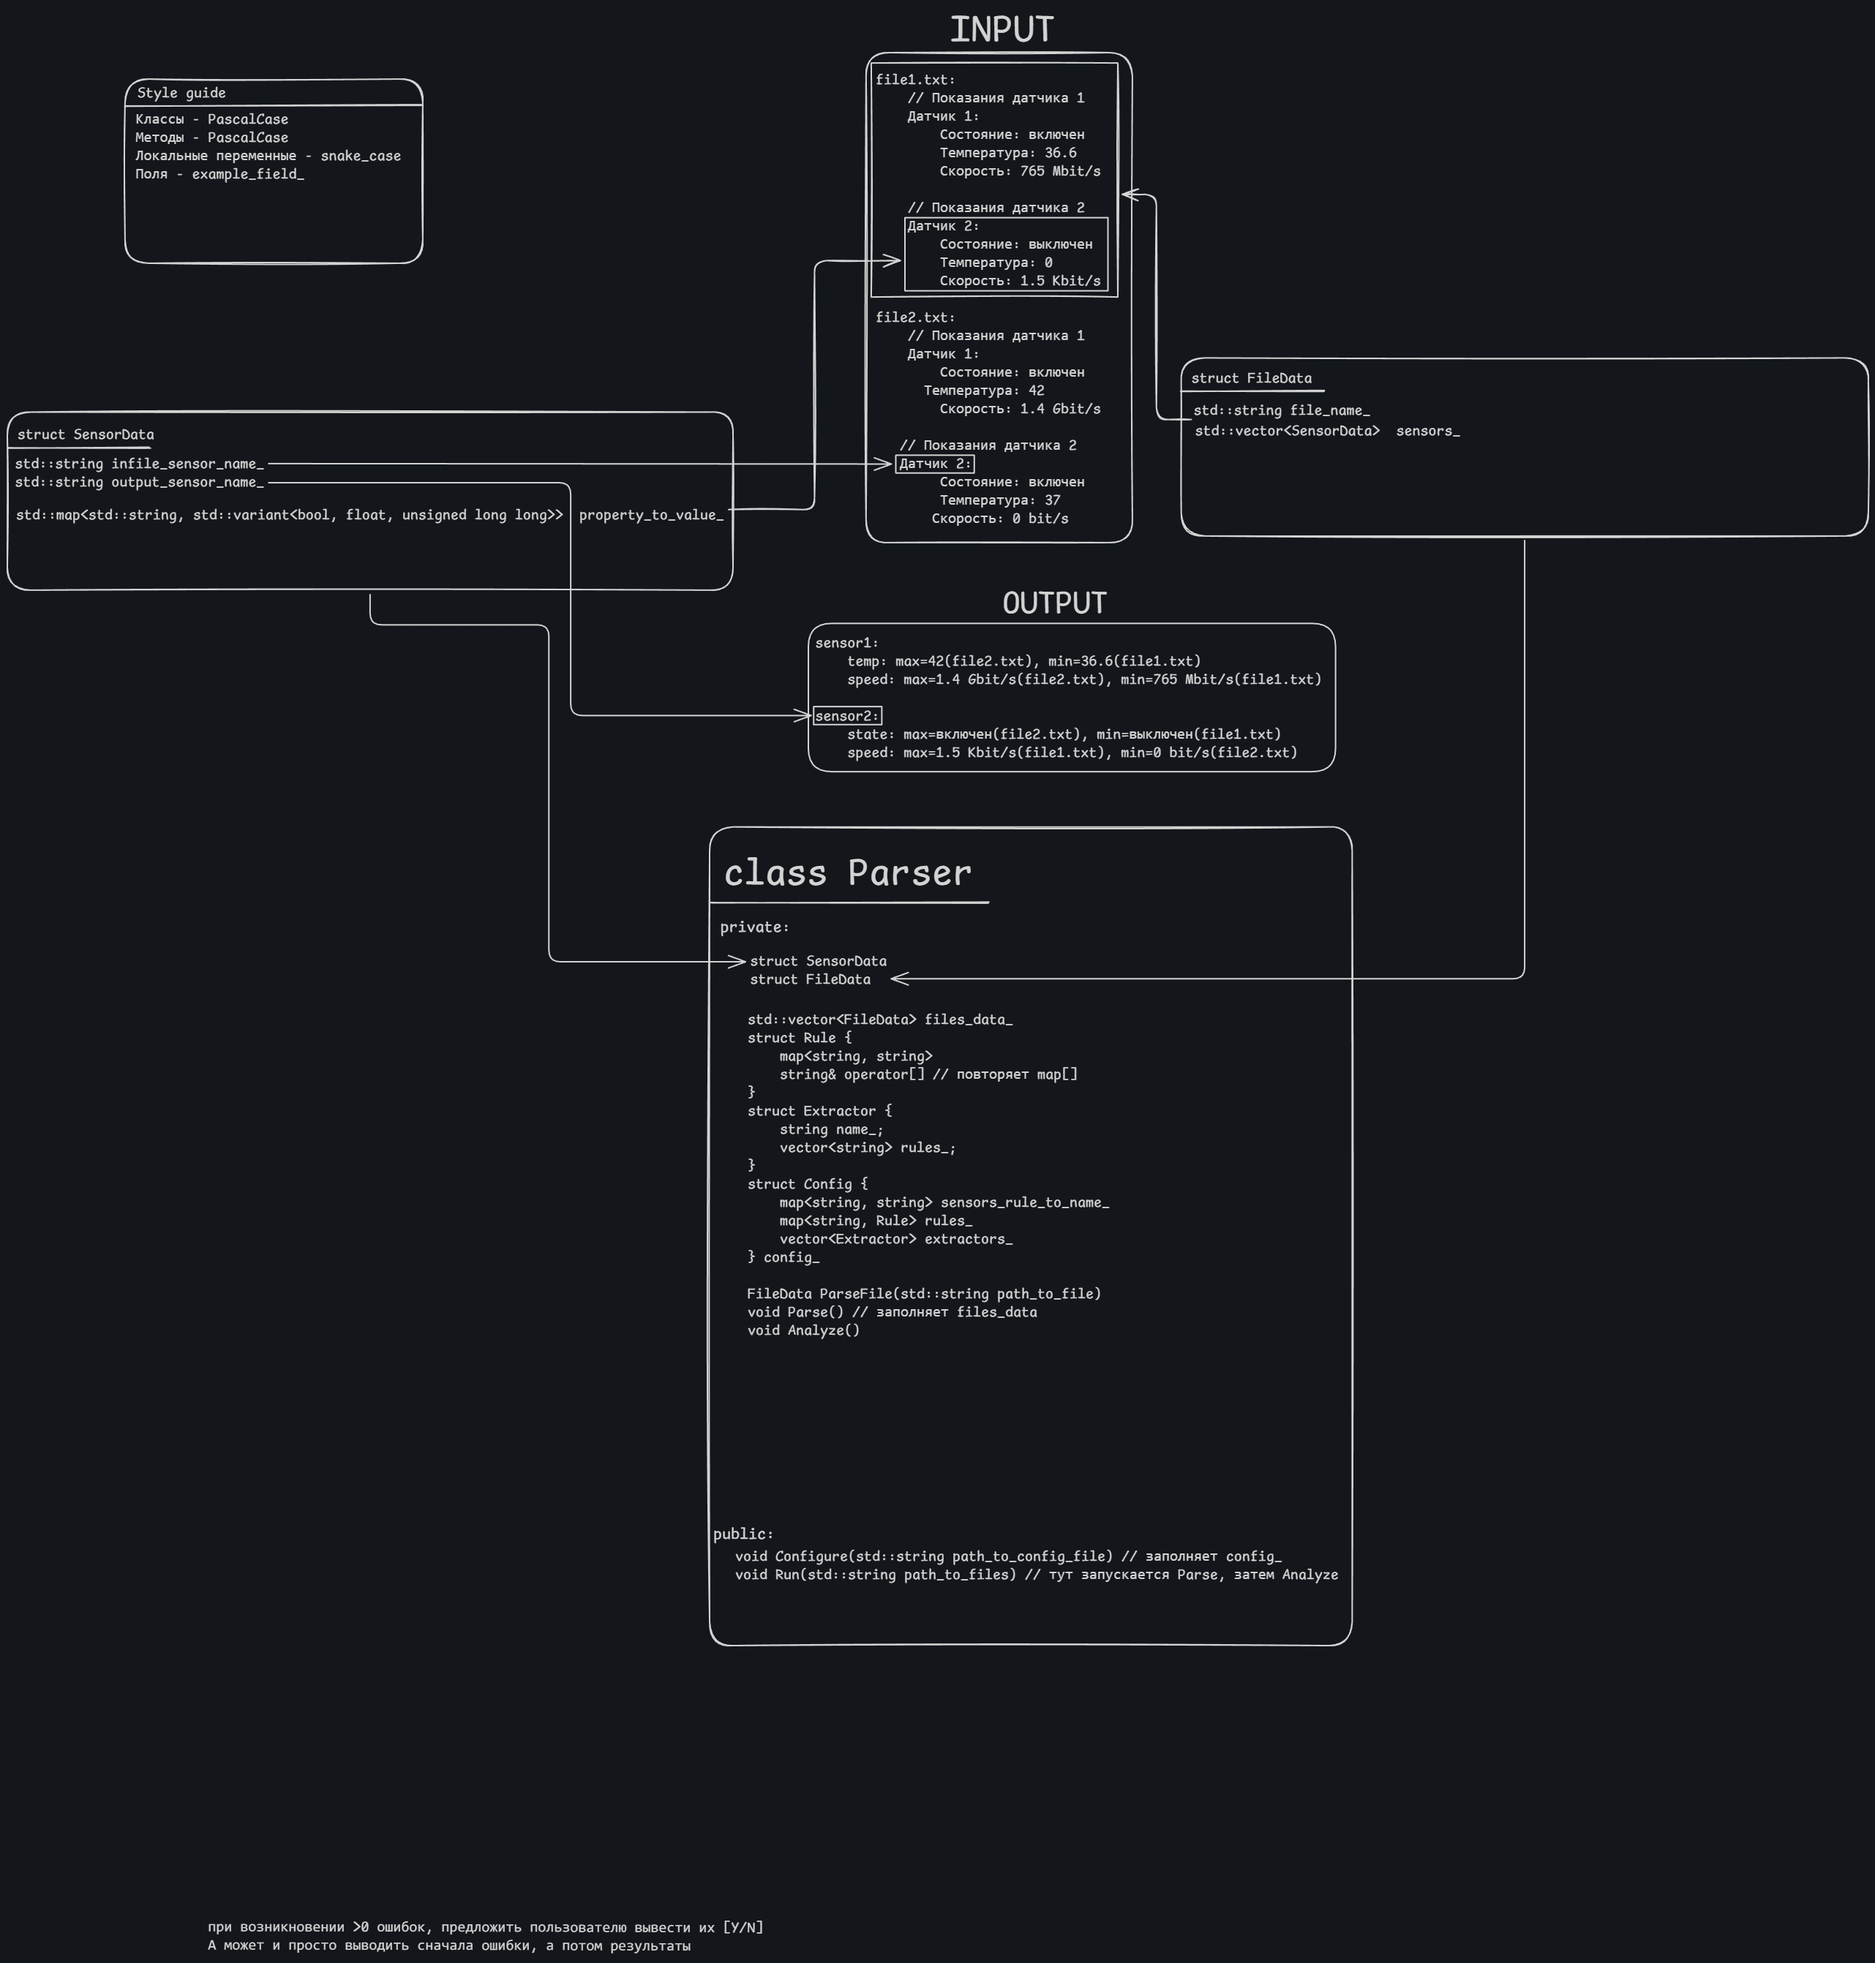
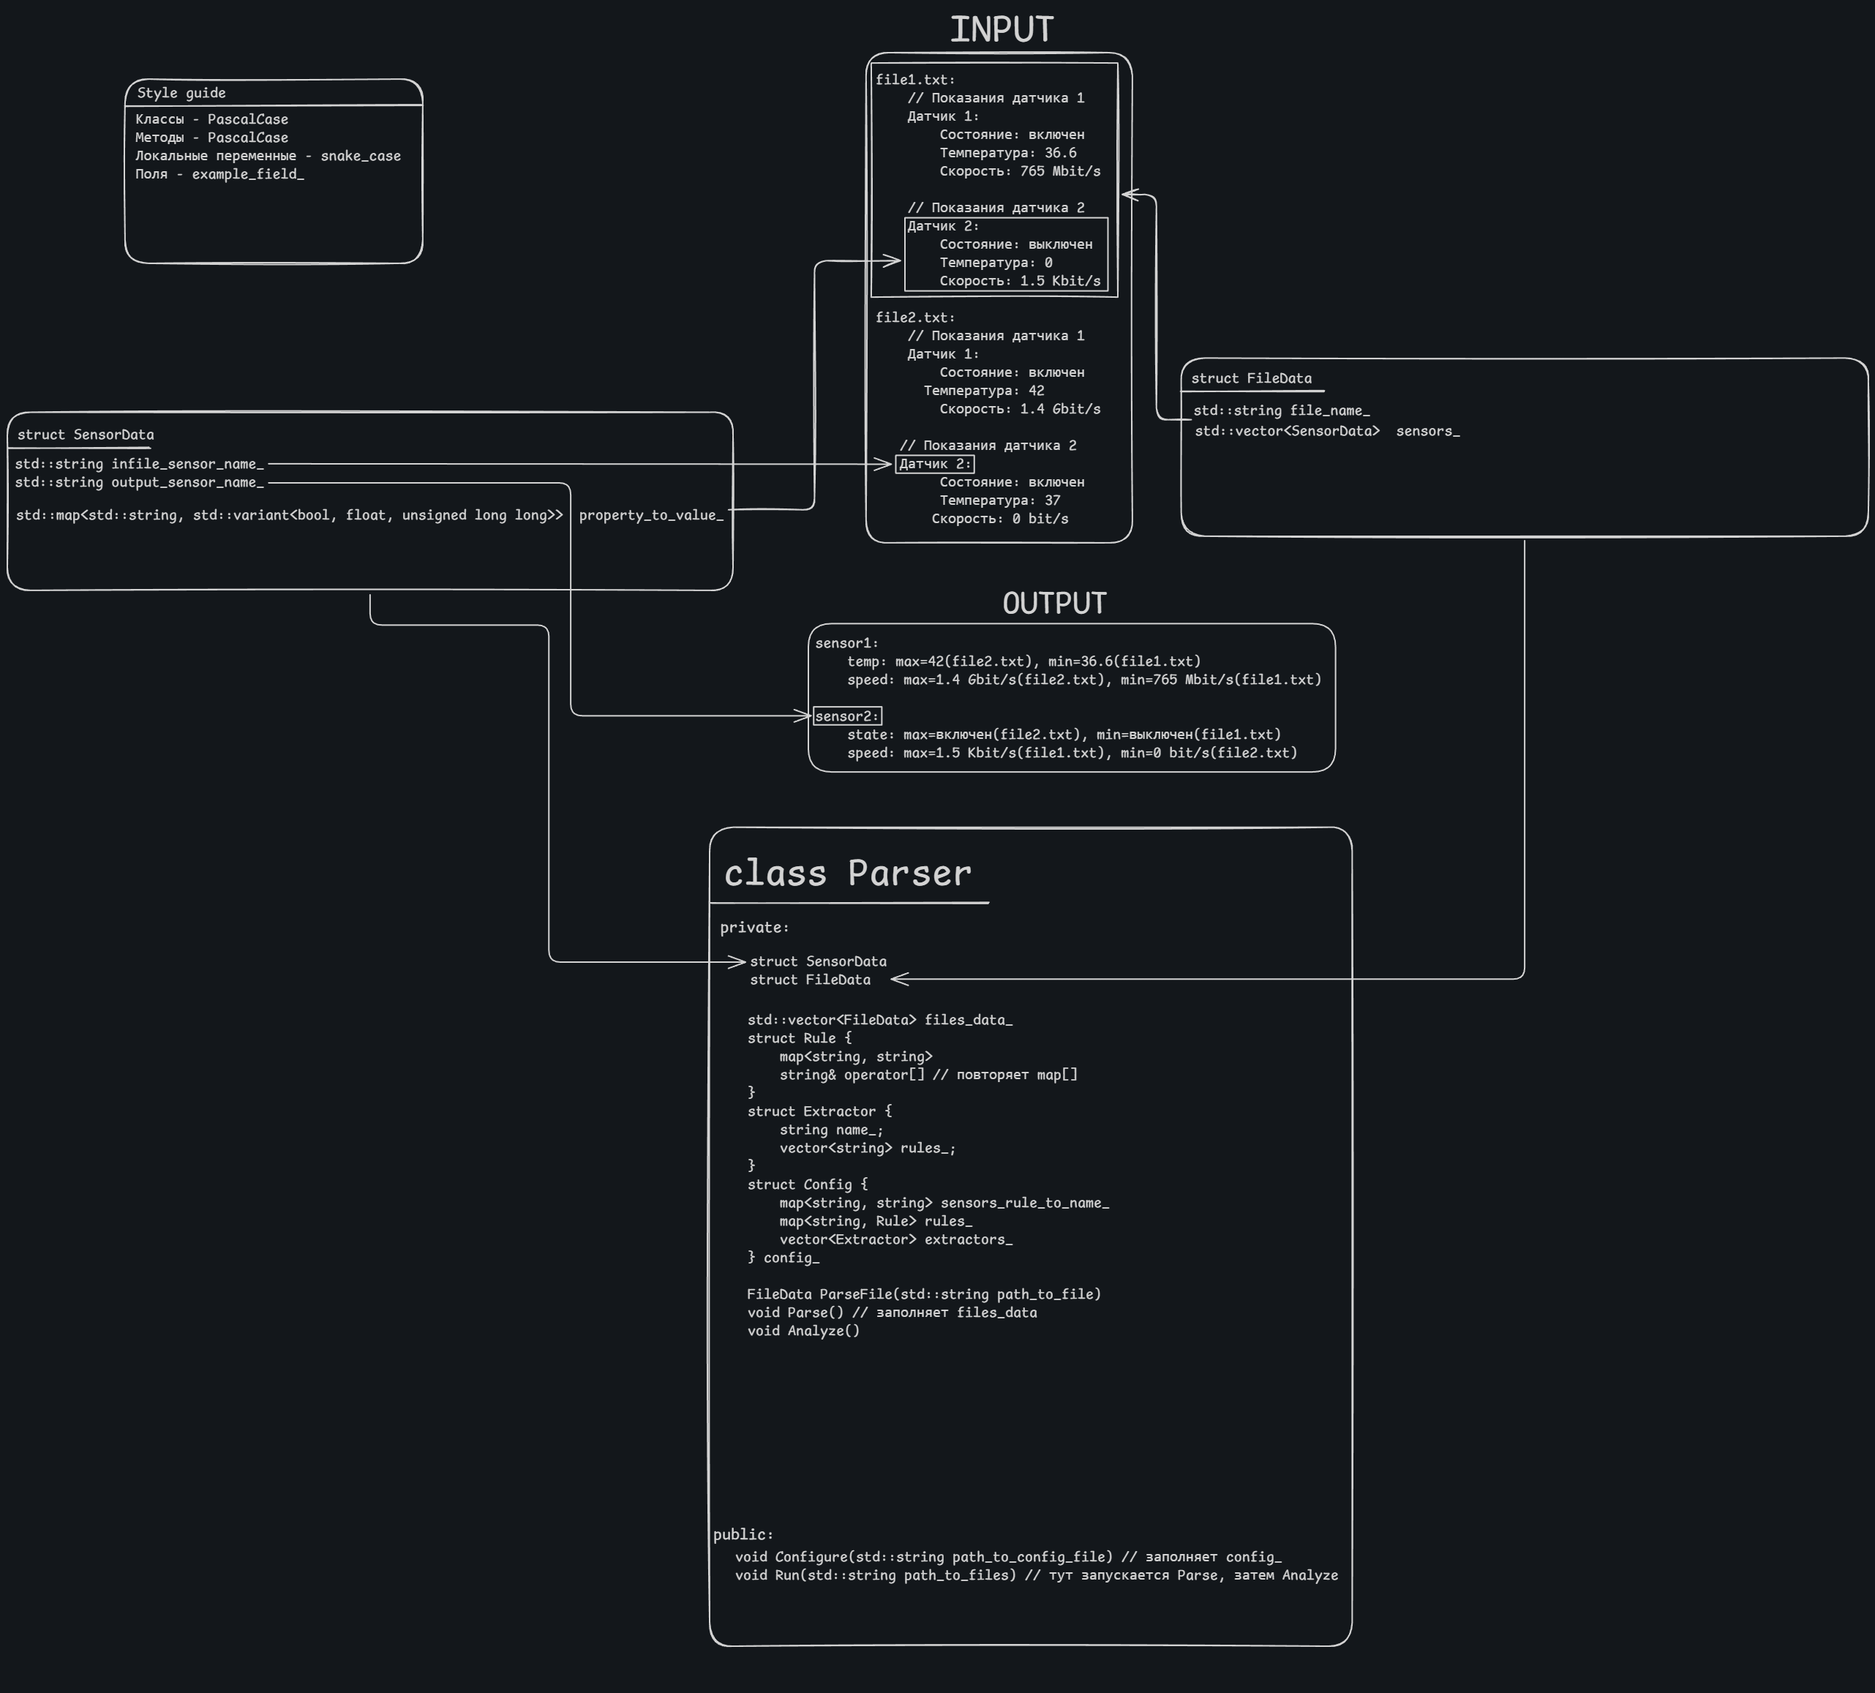
Add configure method implementation

diff --git a/includes/configurable_parser.h b/includes/configurable_parser.h
@@ -1,0 +1,143 @@
+#pragma once
+#include <string>
+#include <map>
+#include <variant>
+#include <vector>
+#include <iostream>
+#include <fstream>
+#include <json.hpp>
+using json = nlohmann::json;
+
+// TODO: добавить всякие проверки в Parser::Configure
+
+class Parser {
+private:
+    enum types {
+        kBool = 0,
+        kFloat = 1,
+        kUnsignedLL = 2
+    };
+
+    struct SensorData {
+        std::string infile_sensor_name_;
+        std::string output_sensor_name_;
+        std::map<std::string, std::variant<bool, float, unsigned long long>> property_to_value_;
+    };
+
+    struct FileData {
+        std::string file_name_;
+        std::vector<SensorData>  sensors_;
+    };
+
+    class Rule {
+        std::map<std::string, std::string> properties_;
+    public:
+        std::string& operator[](std::string propetry_name) {
+            return properties_[propetry_name];
+        }
+
+        friend std::ostream& operator<<(std::ostream& os, const Rule& rule) {
+            for (auto& [key, value] : rule.properties_) {
+                os << "    " << key << ": " << value << '\n'; 
+            }
+            return os;
+        }
+    };
+
+    struct Extractor {
+        std::string name_;
+        std::vector<std::string> rules_to_extract_;
+    };
+    
+    struct Config {
+        std::map<std::string, std::string> sensors_rule_to_name_;
+        std::map<std::string, Rule> rules_;
+        std::vector<Extractor> extractors_;
+
+        void clear() {
+            sensors_rule_to_name_.clear();
+            rules_.clear();
+            extractors_.clear();
+        }
+
+        void dump(std::ostream& os) {
+            os << "sensors_rule_to_name_:\n";
+            for (auto& [key, value] : sensors_rule_to_name_) {
+                os << "  " << key << ": " << value << '\n';
+            }
+
+            os << "rules_:\n";
+            for (auto& [key, rule] : rules_) {
+                os << "  " << key << ":\n";
+                os << rule;
+            }
+
+            os << "extractors_:\n";
+            for (auto& extractor : extractors_) {
+                
+                os << "  " << extractor.name_ << ":\n";
+                for (auto& rule_to_extract : extractor.rules_to_extract_) {
+                    os << "    " << rule_to_extract << "\n";
+                }
+            }
+        }
+    };
+    
+    Config config_;
+    std::vector<FileData> files_data_;
+
+    FileData ParseFile(const std::string& path_to_file) {
+
+    }
+    void Parse() { // заполняет files_data
+        
+    }
+    void Analyze() {
+
+    }
+
+public:
+    bool Configure(const std::string& path_to_config_file) { // заполняет config_
+        // сначала очищаем config_
+        config_.clear();
+
+        std::ifstream f(path_to_config_file);
+
+        json data = json::parse(f);
+
+        for (auto& sensor : data["sensors"]) {
+            std::cout << sensor["rule"] << ": " << sensor["name"] << '\n';
+            config_.sensors_rule_to_name_[sensor["rule"]] = sensor["name"];
+        }
+
+        for (auto& rule : data["rules"]) {
+            auto& properties = config_.rules_[rule["name"]];
+            for (auto& property : rule.items()) {
+                if (property.key() == "name") {
+                    continue;
+                }
+                properties[property.key()] = property.value();
+            }
+            std::cout << "#####\n\n";
+        }
+
+        for (auto& extractor : data["extractors"]) {
+            Extractor new_extractor;
+            new_extractor.name_ = extractor["sensor"];
+            for (auto& rule_name : extractor["rules"]) {
+                new_extractor.rules_to_extract_.push_back(rule_name);
+            }
+            config_.extractors_.push_back(std::move(new_extractor));
+        }
+
+
+        std::cout << "\nconfig.dump:\n";
+        config_.dump(std::cout);
+        return true;
+    }
+
+    void Run(std::string path_to_files, std::ostream& os = std::cout) { // тут запускается Parse, затем Analyze
+        Parse();
+        Analyze();
+    }
+};

diff --git a/src/source.cpp b/src/source.cpp
@@ -1,19 +1,19 @@
 #include "../includes/json.hpp"
+#include "configurable_parser.h"
 #include <iostream>
 #include <fstream>
 #include <windows.h>
 
 using json = nlohmann::json;
 
+using namespace std;
+
 int main() {
     SetConsoleOutputCP(CP_UTF8); 
     SetConsoleCP(CP_UTF8);  
 
-    std::ifstream f("test/example.json");
-    std::cout << f.is_open()<<'\n';
-    
-    json data = json::parse(f);
-    std::cout << data.dump() << "\n####\n";
-    std::cout << "hedыыыыыы";
+    cout << "\n";
+    Parser parser;
+    parser.Configure("test/example.json");
     return 0;
 }

diff --git a/src/configurable_parser.cpp b/src/configurable_parser.cpp
@@ -1,0 +1,5 @@
+#include "configurable_parser.h"
+
+void foo() {
+    std::cout << "asdgfhjkasdghjagsdagds\n";
+}
